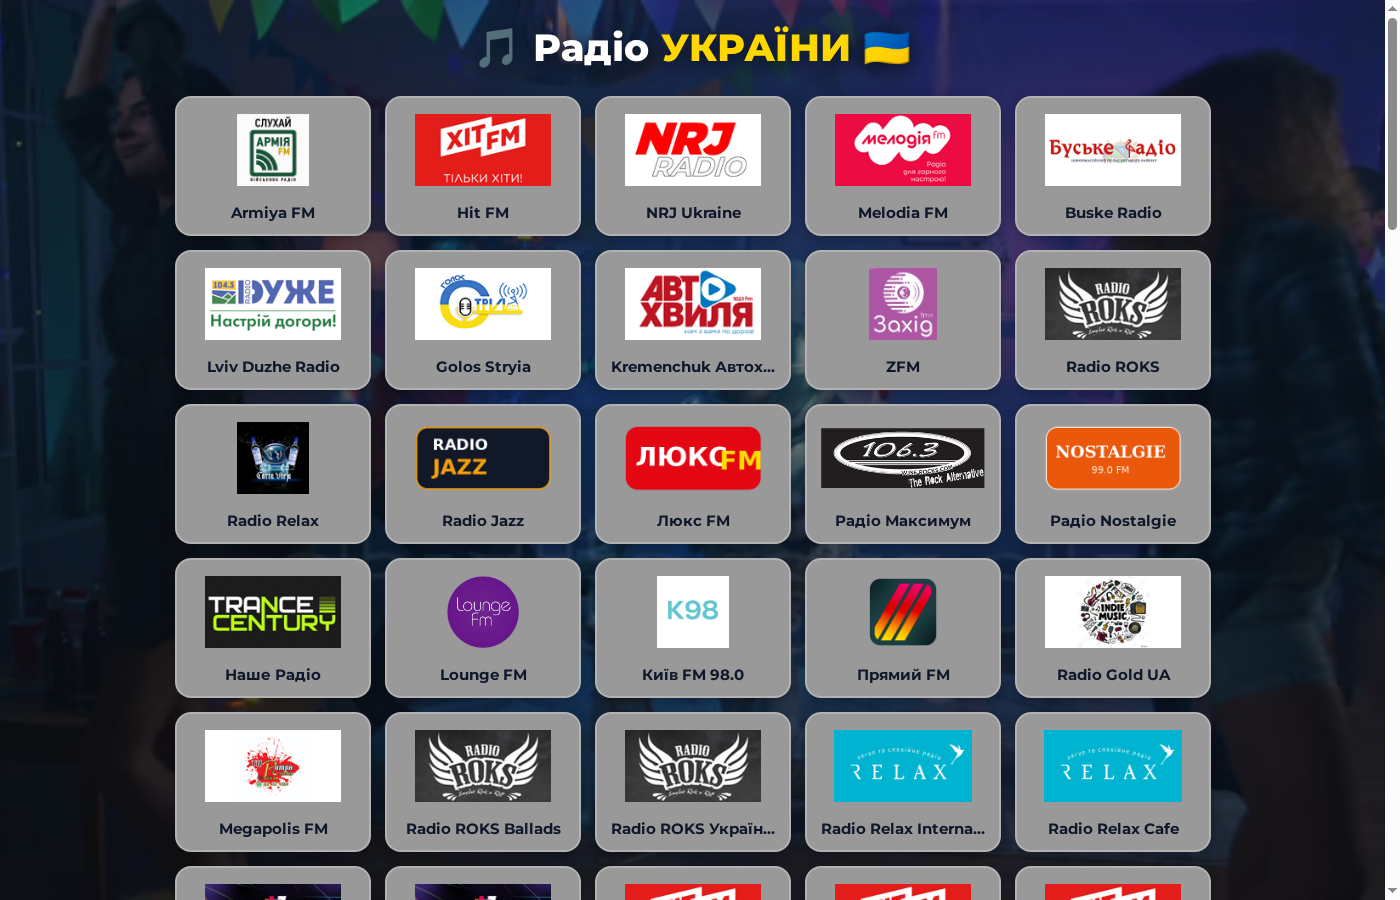
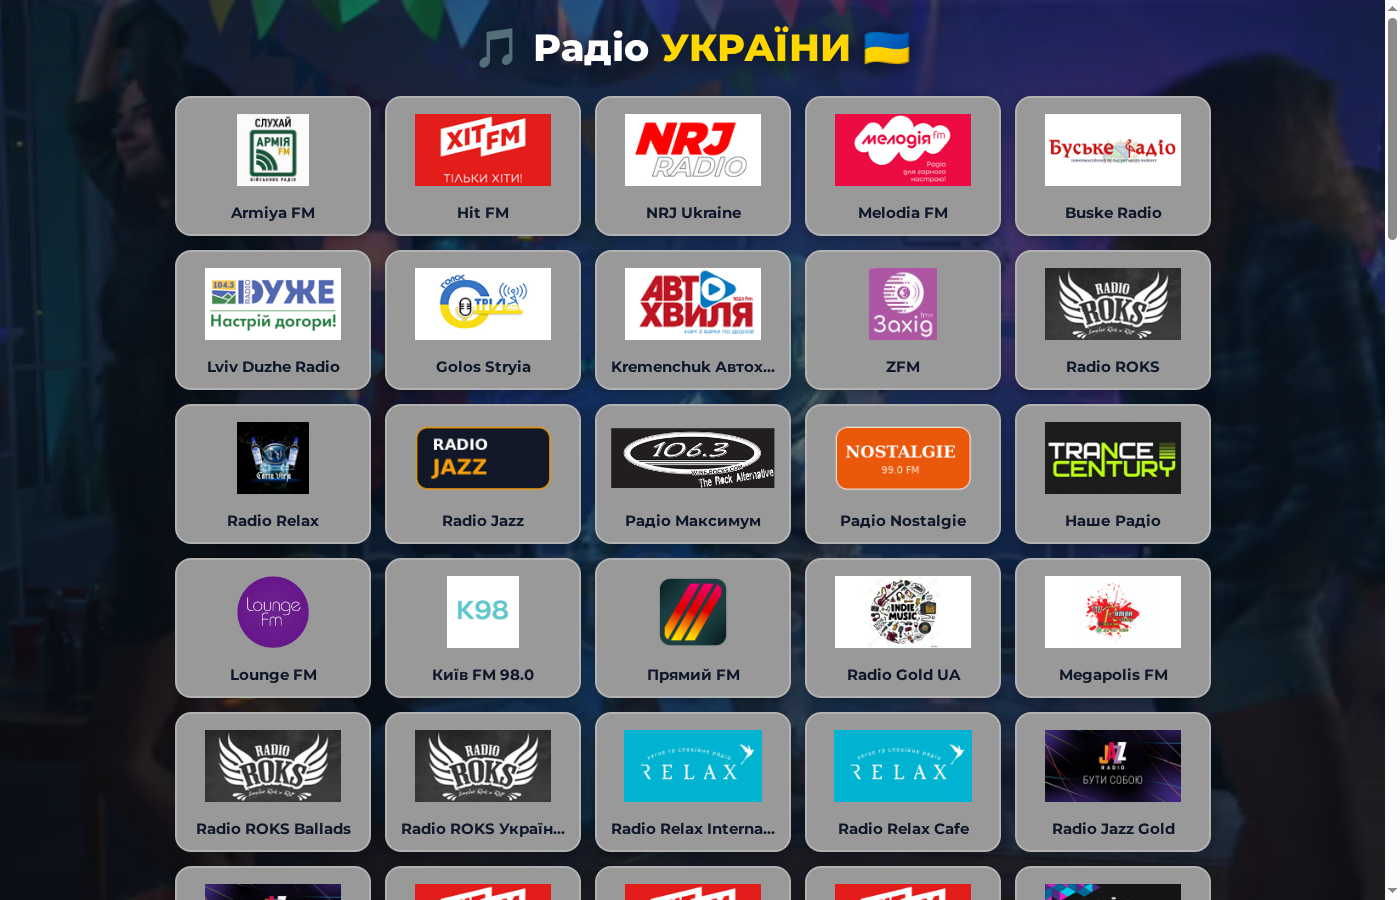
Видалено станції Lux FM та оновлено README зі скріншотом

diff --git a/index.html b/index.html
@@ -381,12 +381,6 @@
             <p>Radio Jazz</p>
         </div>
 
-        <div class="radio-item" data-name="Люкс FM" onclick="playRadio('https://lux.radio.tvstitch.com/kyiv/lux_adv_sd', 'Люкс FM', 'logos/lux-fm.png', this)">
-            <div class="playing-indicator"><span></span><span></span><span></span></div>
-            <div class="img-wrapper"><img loading="lazy" decoding="async" src="logos/lux-fm.png" alt="Люкс FM" onerror="handleImgError(this)"></div>
-            <p>Люкс FM</p>
-        </div>
-
         <div class="radio-item" data-name="Радіо Максимум" onclick="playRadio('https://lux.radio.tvstitch.com/kyiv/max_adv_sd', 'Радіо Максимум', 'logos/radio-maximum.png', this)">
             <div class="playing-indicator"><span></span><span></span><span></span></div>
             <div class="img-wrapper"><img loading="lazy" decoding="async" src="logos/radio-maximum.png" alt="Радіо Максимум" onerror="handleImgError(this)"></div>
@@ -561,12 +555,6 @@
             <p>RadiVo</p>
         </div>
 
-        <div class="radio-item" data-name="Люкс ФМ – Сучасні хіти" onclick="playRadio('https://lux.radio.tvstitch.com/suchasni-hiti-sd', 'Люкс ФМ – Сучасні хіти', 'logos/ua/liuks-fm-suchasni-khity.jpg', this)">
-            <div class="playing-indicator"><span></span><span></span><span></span></div>
-            <div class="img-wrapper"><img loading="lazy" decoding="async" src="logos/ua/liuks-fm-suchasni-khity.jpg" alt="Люкс ФМ – Сучасні хіти" onerror="handleImgError(this)"></div>
-            <p>Люкс ФМ – Сучасні хіти</p>
-        </div>
-
         <div class="radio-item" data-name="Radio Social.net.ua" onclick="playRadio('https://radio.social.net.ua/live.mp3', 'Radio Social.net.ua', 'logos/ua/radio-social-net-ua.png', this)">
             <div class="playing-indicator"><span></span><span></span><span></span></div>
             <div class="img-wrapper"><img loading="lazy" decoding="async" src="logos/ua/radio-social-net-ua.png" alt="Radio Social.net.ua" onerror="handleImgError(this)"></div>
@@ -583,12 +571,6 @@
             <div class="playing-indicator"><span></span><span></span><span></span></div>
             <div class="img-wrapper"><img loading="lazy" decoding="async" src="logos/ua/radio-bairaktar.ico" alt="Радіо Байрактар" onerror="handleImgError(this)"></div>
             <p>Радіо Байрактар</p>
-        </div>
-
-        <div class="radio-item" data-name="Люкс ФМ – Українські хіти" onclick="playRadio('https://lux.radio.tvstitch.com/ukrayinski-hiti-sd', 'Люкс ФМ – Українські хіти', 'logos/ua/liuks-fm-ukrainski-khity.jpg', this)">
-            <div class="playing-indicator"><span></span><span></span><span></span></div>
-            <div class="img-wrapper"><img loading="lazy" decoding="async" src="logos/ua/liuks-fm-ukrainski-khity.jpg" alt="Люкс ФМ – Українські хіти" onerror="handleImgError(this)"></div>
-            <p>Люкс ФМ – Українські хіти</p>
         </div>
 
         <div class="radio-item" data-name="Мелодія Int" onclick="playRadio('https://online.melodiafm.ua/MelodiaFM_Int_Live', 'Мелодія Int', 'logos/hit-fm.png', this)">
@@ -687,12 +669,6 @@
             <p>K-Pop Radio</p>
         </div>
 
-        <div class="radio-item" data-name="Lux FM Lviv" onclick="playRadio('https://lux.radio.tvstitch.com/lux_lviv_adv_sd', 'Lux FM Lviv', 'logos/lux-fm.png', this)">
-            <div class="playing-indicator"><span></span><span></span><span></span></div>
-            <div class="img-wrapper"><img loading="lazy" decoding="async" src="logos/lux-fm.png" alt="Lux FM Lviv" onerror="handleImgError(this)"></div>
-            <p>Lux FM Lviv</p>
-        </div>
-
         <div class="radio-item" data-name="Minatrix.FM: Независимое онлайн-радио и сообщество артистов для публикации музыки." onclick="playRadio('https://minatrix.fm:8002/play', 'Minatrix.FM: Независимое онлайн-радио и сообщество артистов для публикации музыки.', 'logos/ua/minatrix-fm-nezavysymoe-onlain-radyo-y-soobshchestvo-artysto.png', this)">
             <div class="playing-indicator"><span></span><span></span><span></span></div>
             <div class="img-wrapper"><img loading="lazy" decoding="async" src="logos/ua/minatrix-fm-nezavysymoe-onlain-radyo-y-soobshchestvo-artysto.png" alt="Minatrix.FM: Независимое онлайн-радио и сообщество артистов для публикации музыки." onerror="handleImgError(this)"></div>
@@ -763,12 +739,6 @@
             <div class="playing-indicator"><span></span><span></span><span></span></div>
             <div class="img-wrapper"><img loading="lazy" decoding="async" src="logos/ua/korosten-fm.png" alt="Коростень фм" onerror="handleImgError(this)"></div>
             <p>Коростень фм</p>
-        </div>
-
-        <div class="radio-item" data-name="Люкс ФМ – Золоті хіти" onclick="playRadio('https://lux.radio.tvstitch.com/zoloti-hiti-sd', 'Люкс ФМ – Золоті хіти', 'logos/ua/liuks-fm-zoloti-khity.jpg', this)">
-            <div class="playing-indicator"><span></span><span></span><span></span></div>
-            <div class="img-wrapper"><img loading="lazy" decoding="async" src="logos/ua/liuks-fm-zoloti-khity.jpg" alt="Люкс ФМ – Золоті хіти" onerror="handleImgError(this)"></div>
-            <p>Люкс ФМ – Золоті хіти</p>
         </div>
 
         <div class="radio-item" data-name="Радіо X.ON" onclick="playRadio('https://audio.x-on.com.ua:8443/x-on-aacp-64.aac', 'Радіо X.ON', 'logos/ua/radio-x-on.png', this)">
@@ -853,12 +823,6 @@
             <div class="playing-indicator"><span></span><span></span><span></span></div>
             <div class="img-wrapper"><img loading="lazy" decoding="async" src="logos/ua/iavir-fm.png" alt="Явір FM" onerror="handleImgError(this)"></div>
             <p>Явір FM</p>
-        </div>
-
-        <div class="radio-item" data-name="Lux FM" onclick="playRadio('https://streamvideo.luxnet.ua/lux/smil:lux.stream.smil/playlist.m3u8', 'Lux FM', 'logos/lux-fm.png', this)">
-            <div class="playing-indicator"><span></span><span></span><span></span></div>
-            <div class="img-wrapper"><img loading="lazy" decoding="async" src="logos/lux-fm.png" alt="Lux FM" onerror="handleImgError(this)"></div>
-            <p>Lux FM</p>
         </div>
 
         <div class="radio-item" data-name="Перше міське радіо (Одеса)" onclick="playRadio('https://live.1tv.od.ua/radio/stream/icecast.audio', 'Перше міське радіо (Одеса)', 'logos/ua/pershe-miske-radio-odesa.png', this)">

diff --git a/README.md b/README.md
@@ -17,7 +17,7 @@
 
 ## ✨ Особливості веб-сторінки
 
-- 🇺🇦 **115 перевірених станцій:** Повний каталог популярних національних та регіональних українських радіостанцій (Hit FM, Kiss FM, Люкс FM, Radio ROKS, NRJ, Radio Jazz, Байрактар, ТАКТ та багато інших).
+- 🇺🇦 **109 перевірених станцій:** Повний каталог популярних національних та регіональних українських радіостанцій (Hit FM, Kiss FM, Radio ROKS, NRJ, Radio Jazz, Байрактар, ТАКТ та багато інших).
 - 🔒 **100% захищені HTTPS-потоки:** Усі аудіопотоки оптимізовані та транслюються через прямі захищені CDN без блокувань *Mixed Content* чи помилок браузера.
 - 🎨 **Справжні логотипи:** Кожна радіостанція має чіткий фірмовий логотип з адаптивним підлаштуванням під картку.
 - ⚡ **Миттєве відтворення:** Запуск і перемикання станцій в один клік без переривань і перезавантаження сторінки.
